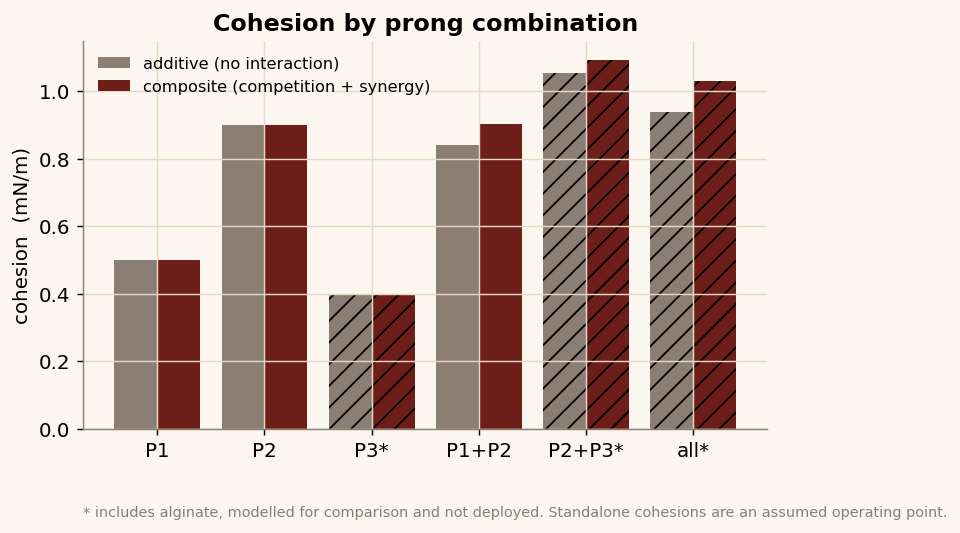
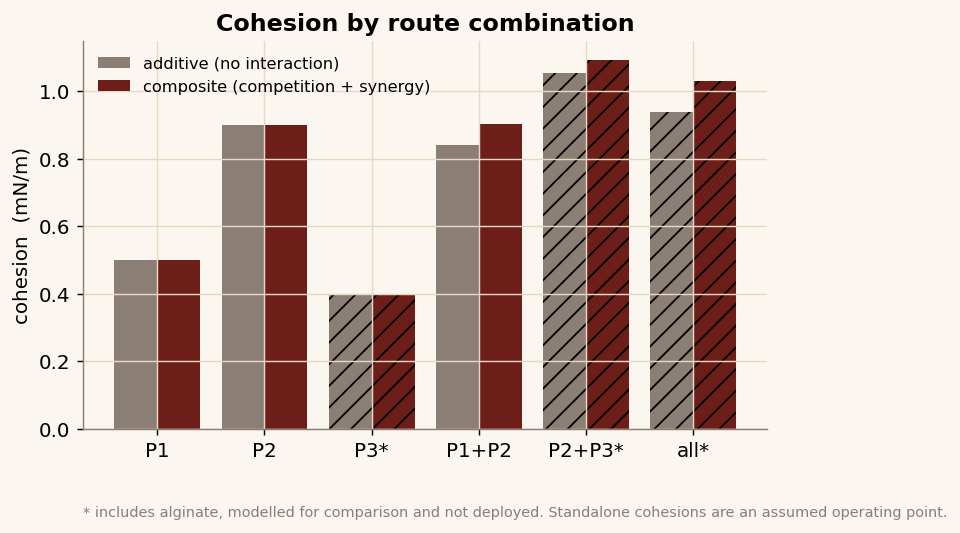
Say routes instead of prongs on the site
Links now use ?routes=, and old ?prongs= links still open.

Changed region(s): [[0.2188, 0.03, 0.6875, 0.0901]]

diff --git a/src/lib/portalsData.tsx b/src/lib/portalsData.tsx
@@ -6,7 +6,7 @@ import {
   PORTAL_NAMES,
 } from "@/content/copy";
 
-// Prong-tailored simulation lives at /model?prongs=1,2, one shared source of truth
+// Prong-tailored simulation lives at /model?routes=1,2, one shared source of truth
 // for the two engineered prongs, the biocontainment kill switch, the (archived) alginate
 // option, the portal cards, and the pipeline sub-nav.
 
@@ -155,12 +155,12 @@ export const NAV_ITEMS: NavItem[] = [
   { slug: "economic", label: "Economic Scalability"},
 ];
 
-/** Encode a set of prong ids for the /model?prongs= query (e.g. [1,2] → "1,2"). */
+/** Encode a set of prong ids for the /model?routes= query (e.g. [1,2] → "1,2"). */
 export function prongsToParam(ids: number[]): string {
   return ids.slice().sort().join(",");
 }
 
-/** Parse the /model?prongs= query back into a validated, de-duplicated id list. */
+/** Parse the /model?routes= query back into a validated, de-duplicated id list. */
 export function parseProngsParam(param: string | null | undefined): number[] {
   if (!param) return [];
   const ids = param

diff --git a/src/components/simulation/SimulationWorkspace.tsx b/src/components/simulation/SimulationWorkspace.tsx
@@ -425,7 +425,7 @@ export default function SimulationWorkspace({
     ],
   );
 
-  // Deep links from the model index arrive as /model?prongs=1#mod-metabolic.
+  // Deep links from the model index arrive as /model?routes=1#mod-metabolic.
   // The target section is not in the document on first paint: several modules
   // are dynamically imported and all of them mount inside an error boundary,
   // so the browser's own hash handling finds nothing and gives up. Resolve it
@@ -572,7 +572,7 @@ function AlginateRationaleBanner() {
         <h2 className="caption text-dune-rose">{ALGINATE_STATUS}</h2>
       </div>
       <p className="mb-4 max-w-[var(--measure)] text-[length:var(--text-micro)] leading-relaxed text-muted-foreground">
-        We scoped alginate as a third prong, a binder you spread on rather
+        We scoped alginate as a third route, a binder you spread on rather
         than one the cells make. Three findings took it out, and each one
         stands on its own:
       </p>

diff --git a/src/components/simulation/GrainSizeCoveragePanel.tsx b/src/components/simulation/GrainSizeCoveragePanel.tsx
@@ -227,7 +227,7 @@ export default function GrainSizeCoveragePanel({
         <span>
           {multi ? (
             <>
-              The prongs are grain-size complementary: MICP (CaCO₃) peaks at
+              The routes are grain-size complementary: MICP (CaCO₃) peaks at
               63–125 µm, while γ-PGA and alginate close the coarse and fine gaps
               it misses, together holding
               <b> {(profile.boundMassFraction * 100).toFixed(0)}%</b> of the
@@ -239,7 +239,7 @@ export default function GrainSizeCoveragePanel({
               band is at
               <b> {profile.weakestDiameter.toFixed(0)} µm</b> (
               {(profile.weakestCoverage * 100).toFixed(0)}% held). Adding
-              another prong that covers that size raises the bound mass
+              another route that covers that size raises the bound mass
               fraction.
             </>
           )}

diff --git a/src/components/simulation/CompositeSynthesisPanel.tsx b/src/components/simulation/CompositeSynthesisPanel.tsx
@@ -162,7 +162,7 @@ export default function CompositeSynthesisPanel({
           <p
             className={`text-[length:var(--text-caption)] text-muted-foreground`}
           >
-            No cross-prong interactions for this combination.
+            No cross-route interactions for this combination.
           </p>
         ) : (
           <div className="space-y-2">
@@ -204,7 +204,7 @@ export default function CompositeSynthesisPanel({
               className={`text-[length:var(--text-micro)] leading-relaxed pt-1 text-muted-foreground`}
             >
               Competition (Ca²⁺) and metabolic burden are applied to each
-              prong&apos;s cohesion <b>before</b> the synergy term above, so the
+              route&apos;s cohesion <b>before</b> the synergy term above, so the
               composite total already reflects them.
             </p>
           </div>

diff --git a/src/components/landing/ProngConstellation.tsx b/src/components/landing/ProngConstellation.tsx
@@ -222,7 +222,7 @@ export default function ProngConstellation({
                 glitch rather than as the count changing. */}
             <h2 className="relative text-[length:var(--text-h1)] text-foreground">
               <span className="invisible" aria-hidden>
-                Two prongs and a kill switch
+                Two routes and a kill switch
               </span>
               {["Three routes", "Two routes and a kill switch"].map((t, i) => (
                 <motion.span
@@ -246,7 +246,7 @@ export default function ProngConstellation({
               onClick={onSimulateBoth}
               className="caption rule-link text-dune-orange transition-colors hover:text-foreground"
             >
-              Simulate both prongs together
+              Simulate both routes together
             </button>
             <button
               onClick={onExplorePortals}

diff --git a/components/search/command-palette.tsx b/components/search/command-palette.tsx
@@ -52,21 +52,21 @@ function buildEntries(): Entry[] {
       label: PRONG_TITLES[1],
       hint: PRONG_SHORTS[1],
       group: "Routes",
-      href: "/model?prongs=1",
+      href: "/model?routes=1",
     },
     {
       id: "prong-2",
       label: PRONG_TITLES[2],
       hint: PRONG_SHORTS[2],
       group: "Routes",
-      href: "/model?prongs=2",
+      href: "/model?routes=2",
     },
     {
       id: "prong-both",
       label: "Both routes together",
       hint: "The full combined simulation",
       group: "Routes",
-      href: "/model?prongs=1,2",
+      href: "/model?routes=1,2",
     },
     {
       id: "killswitch",

diff --git a/src/components/pages/LandingView.tsx b/src/components/pages/LandingView.tsx
@@ -55,7 +55,7 @@ export default function LandingView() {
 
   const goToModel = (prongs: number[]) => {
     if (prongs.length === 0) return;
-    router.push(`/model?prongs=${[...prongs].sort().join(",")}`);
+    router.push(`/model?routes=${[...prongs].sort().join(",")}`);
   };
 
   return (
@@ -102,7 +102,7 @@ export default function LandingView() {
         onSeeModel={handleSeeModel}
         onProceedToModel={() => {
           setShowAdventure(false);
-          router.push(`/model?prongs=1,2`);
+          router.push(`/model?routes=1,2`);
         }}
       />
     </motion.div>

diff --git a/src/components/simulation/CuringTimelinePanel.tsx b/src/components/simulation/CuringTimelinePanel.tsx
@@ -365,7 +365,7 @@ export default function CuringTimelinePanel({
             <>
               This selection cures to withstand only{" "}
               <b>{timeline.maxSurvivableWindFresh.toFixed(0)} m/s</b> when fresh, below the {designWind} m/s design wind. Lower the design wind,
-              or add/strengthen the CaCO₃ (MICP) prong, whose cement supplies
+              or add/strengthen the CaCO₃ (MICP) route, whose cement supplies
               the extra cohesion needed to survive UAE storm winds.
             </>
           ) : timeline.survivesToScheduledReapply ? (

diff --git a/src/components/MolstarProteinExplorer.tsx b/src/components/MolstarProteinExplorer.tsx
@@ -116,7 +116,7 @@ export default function MolstarProteinExplorer({
                 <div className="flex items-center gap-2 mb-1">
                   <span className="font-bold text-[length:var(--text-micro)]">{s.label}</span>
                   <span className="ml-auto text-[length:var(--text-caption)] font-bold uppercase tracking-[0.12em] opacity-50">
-                    Prong {s.prong}
+                    Route {s.prong}
                   </span>
                 </div>
                 <p className="text-[length:var(--text-caption)] opacity-60 leading-snug">

diff --git a/src/components/simulation/modules/AlginateGelModule.tsx b/src/components/simulation/modules/AlginateGelModule.tsx
@@ -330,7 +330,7 @@ export default function AlginateGelModule({ isLightMode, onUpdate }: Props) {
               The honest limit: alginate is soluble, so each wet cycle removes a
               fixed fraction and residual strength falls as (1 - washout
               rate)^cycles. That decay rate is a rainfall-simulation calibration
-              target, and it is why alginate is one prong of three, not the
+              target, and it is why alginate is one route of three, not the
               whole answer.
             </GlossaryText>
           </p>

diff --git a/src/components/pages/PortalsView.tsx b/src/components/pages/PortalsView.tsx
@@ -19,7 +19,7 @@ export default function PortalsView() {
           Sandbox portals
         </h1>
         <p className="mt-4 max-w-[60ch] text-[length:var(--text-body)] leading-relaxed text-muted-foreground">
-          Each portal is its own workspace, separate from the prong-tailored
+          Each portal is its own workspace, separate from the route-tailored
           simulation.
         </p>
       </div>

diff --git a/src/lib/modelIndex.ts b/src/lib/modelIndex.ts
@@ -82,7 +82,7 @@ export const ARCHIVED_MODULES = MODULE_REGISTRY.filter((m) => m.appliesTo([3]) &
 
 /** Deep link into a module's section inside the workspace. */
 export function moduleHref(prongs: string, id: string) {
-  return `/model?prongs=${prongs}#mod-${id}`;
+  return `/model?routes=${prongs}#mod-${id}`;
 }
 
 export const TOTAL_MODULES = MODULE_REGISTRY.length;
